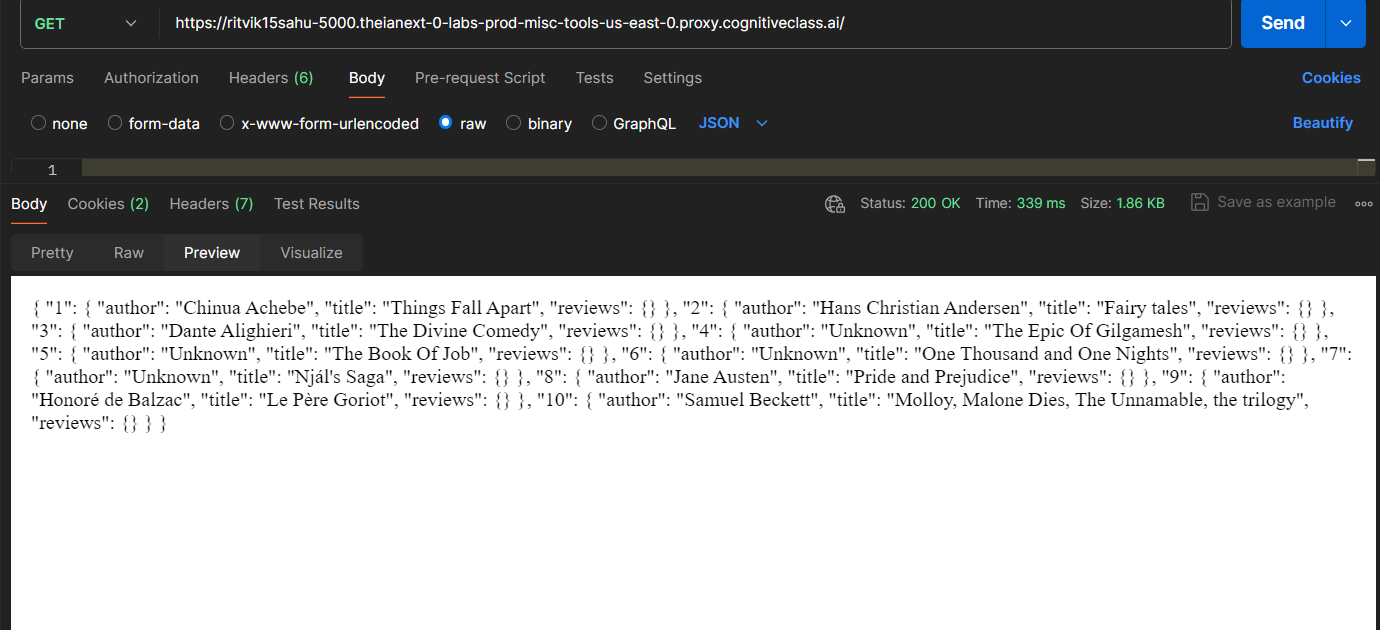
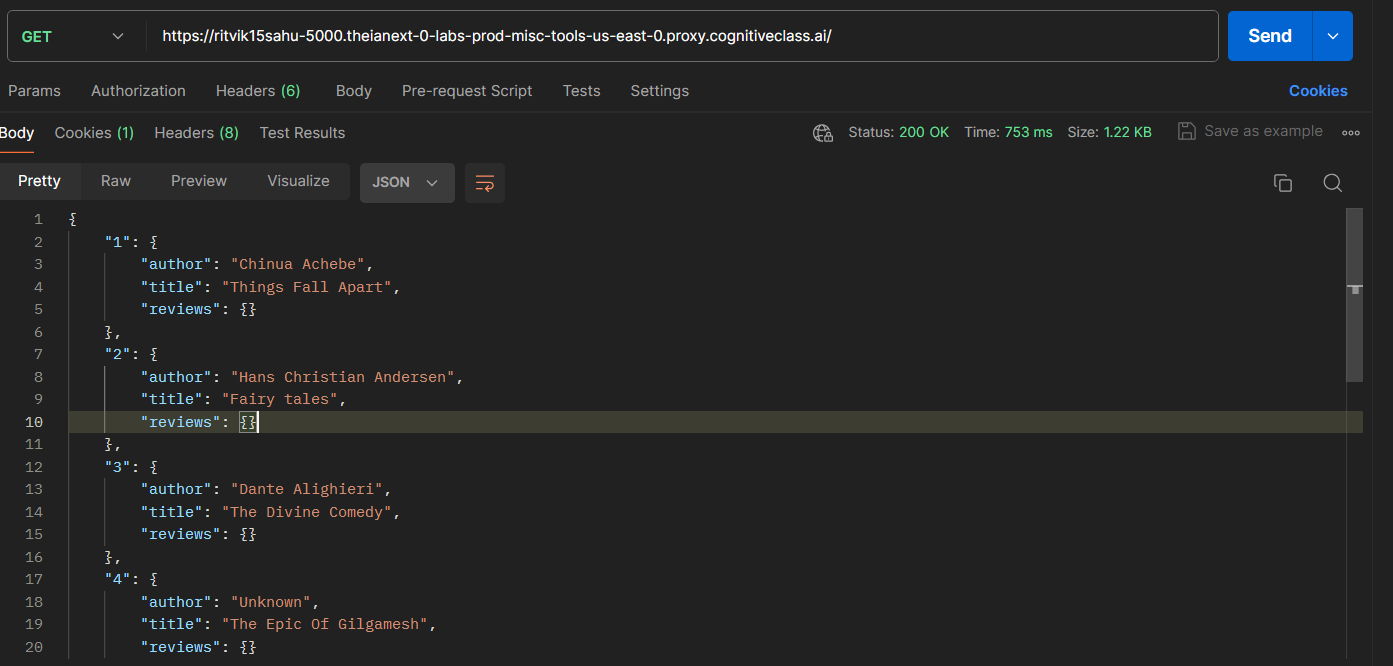
making minor changes in the script

diff --git a/router/booksdb.js b/router/booksdb.js
@@ -1,15 +1,14 @@
 let books = {
-      1: {"author": "Chinua Achebe","title": "Things Fall Apart", "reviews": "Accessible and engaging" },
-      2: {"author": "Hans Christian Andersen","title": "Fairy tales", "reviews": "Provocative and thought-provoking" },
-      3: {"author": "Dante Alighieri","title": "The Divine Comedy", "reviews": "Accessible and engaging" },
-      4: {"author": "Unknown","title": "The Epic Of Gilgamesh", "reviews": "Provocative and thought-provoking" },
-      5: {"author": "Unknown","title": "The Book Of Job", "reviews":"Accessible and engaging" },
-      6: {"author": "Unknown","title": "One Thousand and One Nights", "reviews":"Provocative and thought-provoking" },
-      7: {"author": "Unknown","title": "Nj\u00e1l's Saga", "reviews":"Accessible and engaging" },
-      8: {"author": "Jane Austen","title": "Pride and Prejudice", "reviews":"Provocative and thought-provoking" },
-      9: {"author": "Honor\u00e9 de Balzac","title": "Le P\u00e8re Goriot", "reviews": "Accessible and engaging" },
-      10: {"author": "Samuel Beckett","title": "Molloy, Malone Dies, The Unnamable, the trilogy", "reviews": "Accessible and engaging" }
-  }
-  
-  module.exports=books;
-  
+    1: {"author": "Chinua Achebe","title": "Things Fall Apart", "reviews": {} },
+    2: {"author": "Hans Christian Andersen","title": "Fairy tales", "reviews": {} },
+    3: {"author": "Dante Alighieri","title": "The Divine Comedy", "reviews": {} },
+    4: {"author": "Unknown","title": "The Epic Of Gilgamesh", "reviews": {} },
+    5: {"author": "Unknown","title": "The Book Of Job", "reviews": {} },
+    6: {"author": "Unknown","title": "One Thousand and One Nights", "reviews": {} },
+    7: {"author": "Unknown","title": "Nj\u00e1l's Saga", "reviews": {} },
+    8: {"author": "Jane Austen","title": "Pride and Prejudice", "reviews": {} },
+    9: {"author": "Honor\u00e9 de Balzac","title": "Le P\u00e8re Goriot", "reviews": {} },
+    10: {"author": "Samuel Beckett","title": "Molloy, Malone Dies, The Unnamable, the trilogy", "reviews": {} }
+}
+
+module.exports=books;

diff --git a/router/general.js b/router/general.js
@@ -21,7 +21,7 @@ public_users.post("/register", (req,res) => {
 
     // Register the new user
     users[username] = password;
-    res.status(201).json({ message: 'User registered successfully' });
+    res.status(201).json({ message: 'Customer successfully registered. Now you can login' });
 });
 
 
@@ -105,6 +105,7 @@ public_users.get('/author/:author',function (req, res) {
     getBookDetailsByAuthor(author)
         .then(bookDetails => {
             if (bookDetails.length > 0) {
+                
                 res.json(bookDetails);
             } else {
                 res.status(404).json({ message: 'Books not found for the author' });
@@ -124,7 +125,7 @@ function getBookDetailsByAuthor(author) {
             Keys.forEach((key) => {
                 const book = books[key];
                 if (book.author === author) {
-                booksByAuthor.push(book.title);
+                booksByAuthor.push(book);
                 }
                 });
             resolve(booksByAuthor);
@@ -200,8 +201,8 @@ function getBookDetailsByTitle(title) {
 public_users.get('/review/:isbn',function (req, res) {
     const isbn = req.params.isbn;
     if (books.hasOwnProperty(isbn)) {
-        const reviews = books[isbn].reviews;
-        res.status(200).json({ isbn, reviews });
+        
+        res.status(200).json( books[isbn].reviews );
     } else {
         res.status(404).json({ message: 'No reviews found for the book with ISBN ' + isbn });
     }

diff --git a/router/auth_users.js b/router/auth_users.js
@@ -43,7 +43,7 @@ regd_users.post("/login", (req,res) => {
         const token = jwt.sign({ username }, 'secret_key', { expiresIn: '1h' });
 
         // Send token as response
-        res.status(200).json({ message: 'Login successful', token });
+        res.status(200).json( 'Customer successfully logged in' );
     } else {
         res.status(401).json({ message: 'Invalid username or password' });
     }
